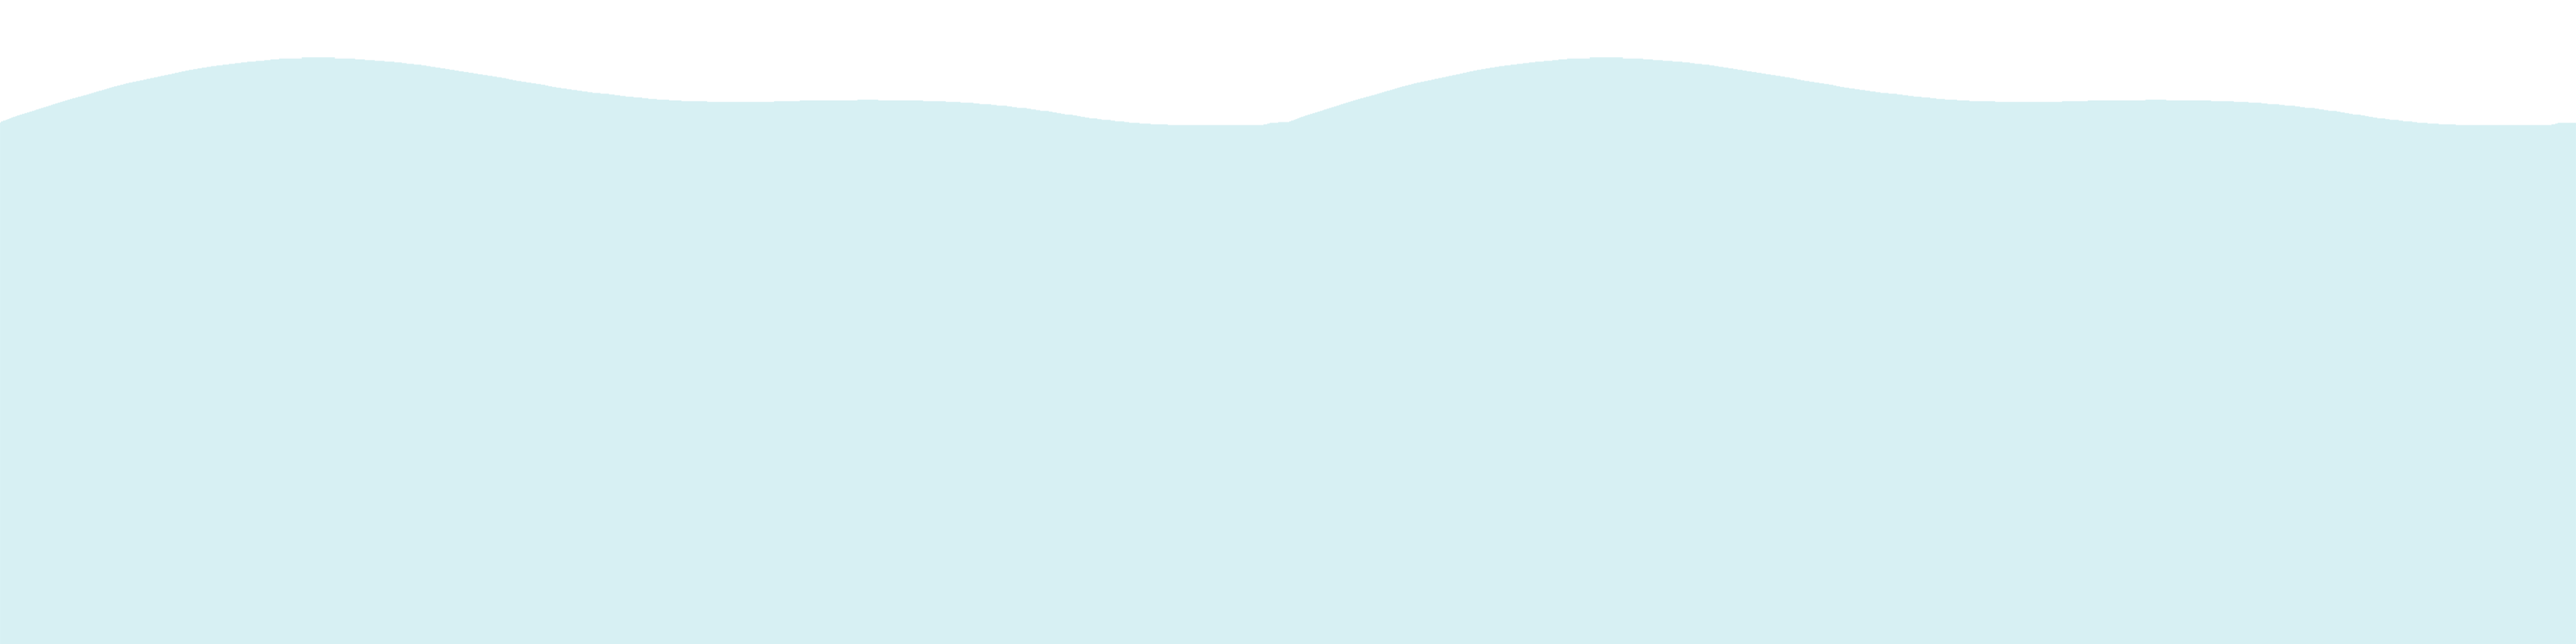
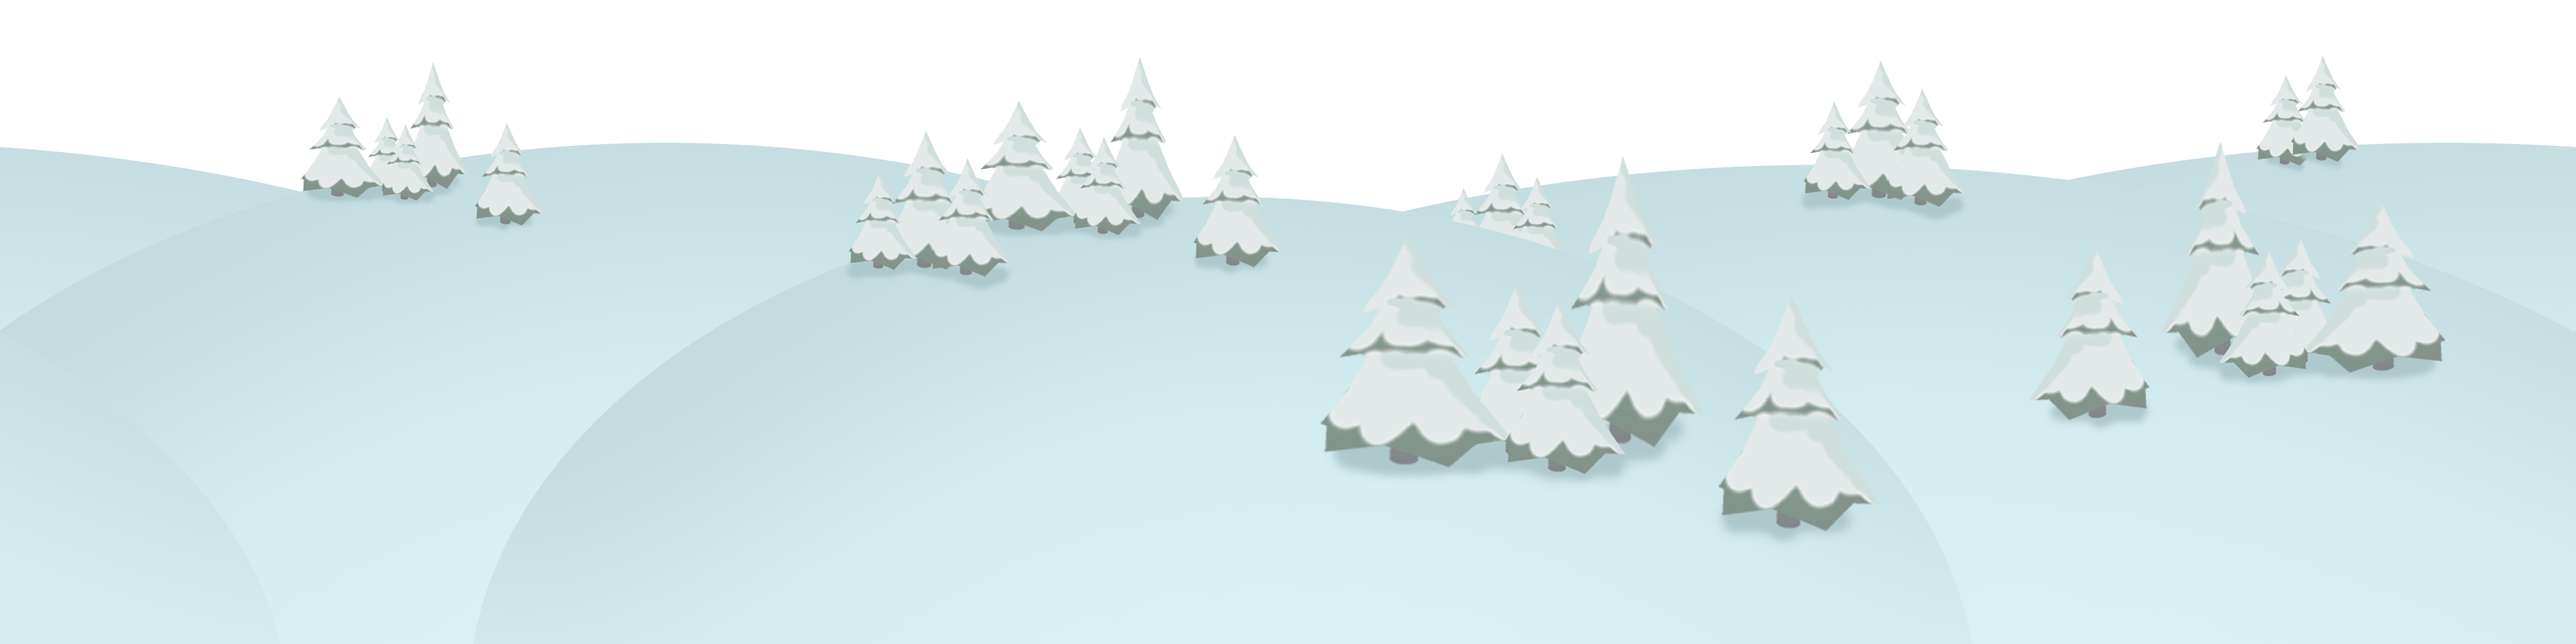
taustoja muokattu, assetteja lisätty

diff --git a/core/src/com/mygdx/game/Background.java b/core/src/com/mygdx/game/Background.java
@@ -48,8 +48,8 @@ public class Background {
         sourceY = game.getPlayer().getY();
         sourceX=game.getPlayer().getX();
         batch.draw(back,x,y,game.getScreenWidth()+1,game.getScreenHeight()+1);
-        batch.draw(middle,x,y,0,0,game.getScreenWidth()+1,game.getScreenHeight()+1,1,1,0,(int)(sourceX*0.7),-(int)(sourceY*0.7)-300,(int)(game.getScreenWidth()*game.PIXELS_TO_METERS*1.2),(int)(game.getScreenHeight()*game.PIXELS_TO_METERS*1.2),false,false);
-        //batch.draw(front,x,y,0,0,game.getScreenWidth()+1,game.getScreenHeight()+1,1,1,0,(int)(sourceX*1.5),-(int)(sourceY*1.5)-450,(int)(game.getScreenWidth()*game.PIXELS_TO_METERS*1.2),(int)(game.getScreenHeight()*game.PIXELS_TO_METERS*1.2),false,false);
+        batch.draw(middle,x,y,0,0,game.getScreenWidth()+1,game.getScreenHeight()+1,1,1,0,(int)(sourceX*0.7),-(int)(sourceY*0.7)-260,(int)(game.getScreenWidth()*game.PIXELS_TO_METERS*1.2),(int)(game.getScreenHeight()*game.PIXELS_TO_METERS*1.2),false,false);
+        batch.draw(front,x,y,0,0,game.getScreenWidth()+1,game.getScreenHeight()+1,1,1,0,(int)(sourceX*5),-(int)(sourceY*5)-530,(int)(game.getScreenWidth()*game.PIXELS_TO_METERS*1.8),(int)(game.getScreenHeight()*game.PIXELS_TO_METERS*1.8),false,false);
 
 
     }

diff --git a/core/src/com/mygdx/game/GameScreen.java b/core/src/com/mygdx/game/GameScreen.java
@@ -70,7 +70,7 @@ public class GameScreen extends NewScreen {
 
         switch (levelnum){
             case 1:
-                modules = levelCreator.createModules( "rata1.svg","lumitausta.png", Color.BLUE);
+                modules = levelCreator.createModules( "rata1.svg","lumitausta.png",Color.GRAY);
                 assets = levelCreator.createAssets("kuusi3.png",new float[]{5,10,20,30,40,50,60,70,80,90});
                 background = new Background(this,"tausta4taso1.jpg","tausta4taso2.png","tausta4taso3.png");
                 break;
